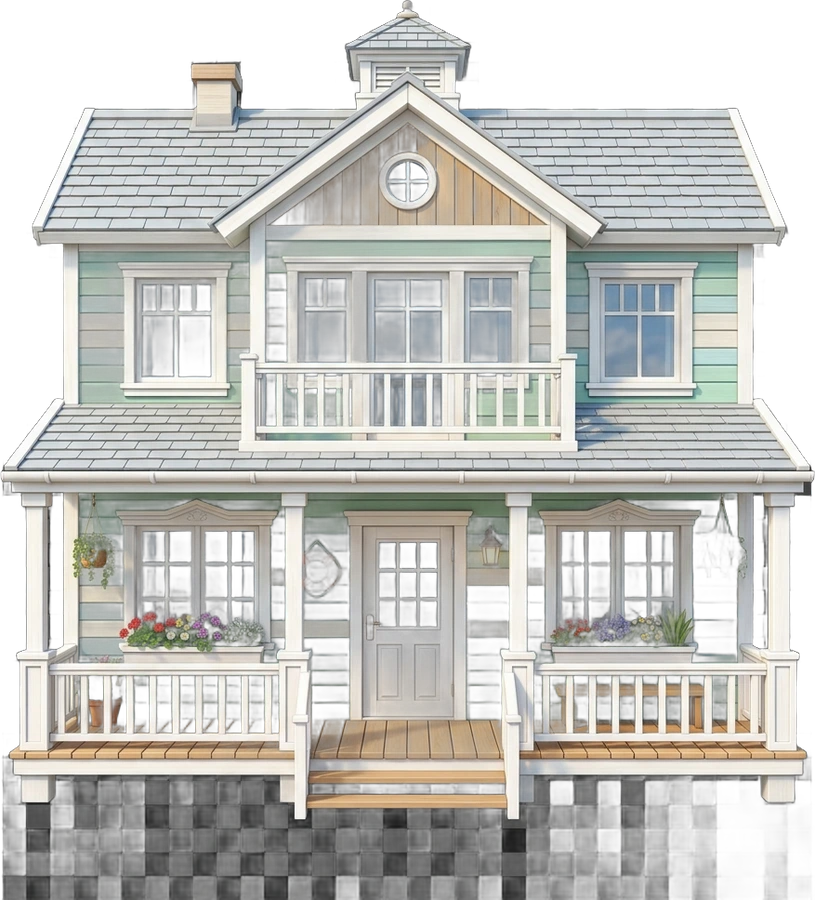
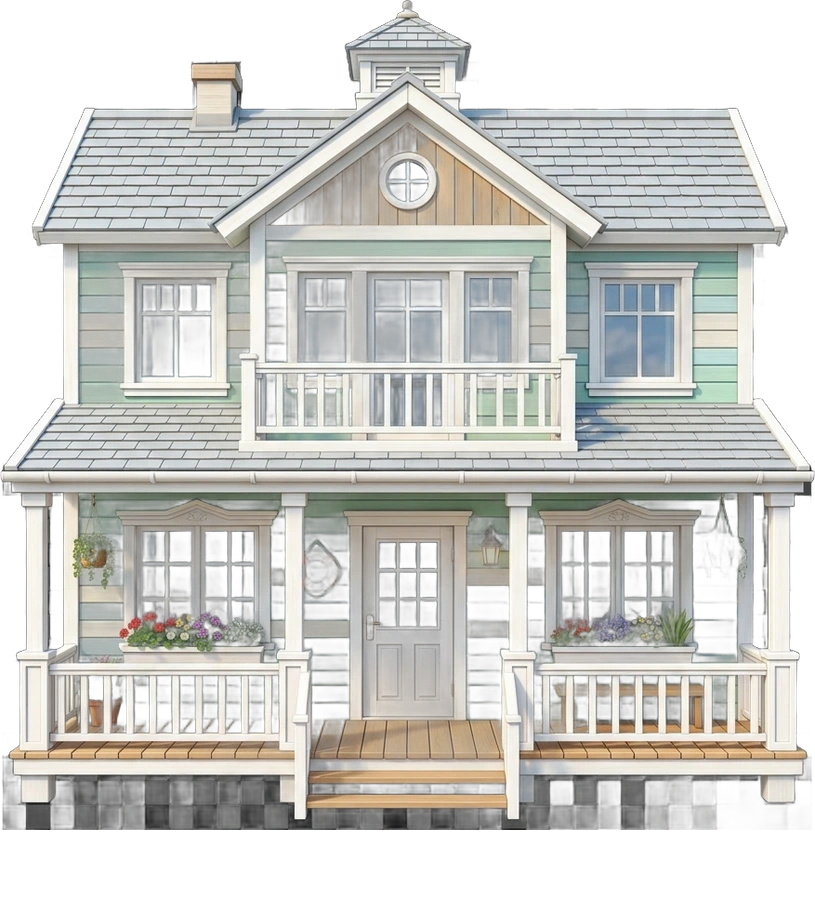
checkpoint before testing_agent_full_stack_o55
Emergent-Commit-Key: 1efefa363fb0563a43a59f183e94a5088f321c538fcaece272a6b99922b01de4

Changed region(s): [[0.0, 0.9022, 0.8896, 1.0], [0.9202, 0.9333, 0.9816, 1.0]]

diff --git a/frontend/src/world/World.js b/frontend/src/world/World.js
@@ -13,18 +13,22 @@ import { Ring, Bar } from "../components/fr";
 import { useFight } from "./useFight";
 import { startMusic } from "../game/sfx";
 import CatchCard from "./CatchCard";
+import { toast } from "sonner";
 import { ChatBox } from "./ChatBox";
 import { QuickTackle } from "./QuickTackle";
 import { lookFace } from "../game/look";
 
 export const PAGES = {
-  inventory: ["Tackle Box", "inventory"], journal: ["Fishdex", "fishdex"], shop: ["Tackle Shop", "bait"], waters: ["Travel Map", "map"], profile: ["My Angler", "skills"],
+  inventory: ["Tackle Box", "inventory"], journal: ["Fishdex", "fishdex"], shop: ["Tackle Shop", "/art/hud/tackle.webp"], waters: ["Travel Map", "map"], profile: ["My Angler", "skills"],
   quests: ["Quests", "quests"], contracts: ["Contracts", "daily"], market: ["Market", "market"], crews: ["Crew HQ", "crew"], tournaments: ["Tournaments", "rankings"],
   duel: ["Duel Pier", "guild"], leaderboards: ["Leaderboards", "rankings"], achievements: ["Achievements", "daily"], crafting: ["Bait Crafting", "craft"],
   messages: ["Messages", "pass"], almanac: ["Almanac", "fishdex"], wiki: ["Wiki", "skills"], "pearl-shop": ["Pearl Shop", "pass"], admin: ["Admin", "settings"],
 };
 const BAR_L = ["waters", "journal", "inventory"];
 const BAR_R = ["shop", "profile"];
+const BAR_R_WATER = ["quests", "profile"];
+// Only reachable from harbour buildings, never from a water.
+const HARBOUR_ONLY = new Set(["shop", "market", "crews", "pearl-shop", "contracts", "crafting", "tournaments", "leaderboards", "achievements", "almanac", "duel", "crew", "bosses", "boss"]);
 const MORE = ["pearl-shop", "quests", "contracts", "market", "crews", "tournaments", "duel", "leaderboards", "achievements", "crafting", "messages", "almanac", "wiki"];
 
 function useScale() {
@@ -47,8 +51,8 @@ function TopBar({ u, place, here }) {
         <div className="pcard-bar"><i style={{ width: `${Math.min(100, (u.energy / u.max_energy) * 100)}%` }} data-testid="energy-bar" /><span data-testid="energy-value">{Math.floor(u.energy)}/{u.max_energy}</span></div>
         <div className="pcard-bar xp"><i style={{ width: `${Math.min(100, ((u.xp_into_level ?? 0) / (u.xp_next || 1)) * 100)}%` }} data-testid="xp-bar" /></div>
       </div>
-      <Coins size={15} color="#ffd34d" className="pcard-ic gold" /><b className="pcard-v gold" data-testid="gold-value">{compact(u.gold)}</b>
-      <Gem size={14} color="#bff4ff" className="pcard-ic pearl" /><b className="pcard-v pearl" title="Pearls are earned in game and only buy cosmetics" data-testid="pearls-value">{compact(u.pearls)}</b>
+      <img src="/art/hud/gold.webp" alt="Gold" className="pcard-ic gold" /><b className="pcard-v gold" data-testid="gold-value">{compact(u.gold)}</b>
+      <img src="/art/hud/pearl.webp" alt="Pearls" className="pcard-ic pearl" /><b className="pcard-v pearl" title="Pearls are earned in game and only buy cosmetics" data-testid="pearls-value">{compact(u.pearls)}</b>
     </div>
   );
 }
@@ -91,6 +95,9 @@ export default function World() {
 
   const goTo = (m) => { fx.mode = m; sessionStorage.setItem("fr_mode", m); fx.me = { ...sceneFor(m === "harbour" ? "harbour" : user?.water || "millbrook").spawn }; fx.dest = null; fx.path = []; fx.autoOpen = null; fx.flip = false; setMode(m); };
 
+  useEffect(() => {
+    if (mode === "water" && page && HARBOUR_ONLY.has(page)) { toast("That's in the harbour. Sail back to visit it."); nav("/game", { replace: true }); }
+  }, [mode, page, nav]);
   useEffect(() => {
     const on = (e) => { goTo(e.detail); nav("/game", { replace: true }); };
     window.addEventListener("fr-mode", on);
@@ -170,17 +177,17 @@ export default function World() {
           <button type="button" data-testid="cast-fish-button" disabled={mode === "water" && (!canFish || !idle)}
             onPointerDown={(e) => { e.preventDefault(); onFish(); }}
             style={{ backgroundImage: `url(/art/hud/${mode === "harbour" ? "sail" : "fishbtn"}.webp)` }}
-            className={`fish-btn fish-btn-img w-[96px] h-[96px] -mt-7 grid place-items-center ${!idle ? "busy" : ""} ${mode === "water" && !canFish && idle ? "opacity-60 grayscale" : ""}`}>
+            className={`fish-btn fish-btn-img w-[96px] h-[96px] -mt-7 grid place-items-center ${ph === "fight" ? "invisible" : ""} ${!idle ? "busy" : ""} ${mode === "water" && !canFish && idle ? "opacity-60 grayscale" : ""}`}>
             <span className="fish-btn-label">{fishLabel}</span>
           </button>
-          {BAR_R.map((k) => <Ring key={k} img={k === "profile" ? lookFace(user.avatar) : PAGES[k][1]} label={PAGES[k][0]} size={w < 600 ? 36 : 46} testid={`menu-${k}`} onClick={() => nav(`/game/${k}`)} />)}
+          {(mode === "water" ? BAR_R_WATER : BAR_R).map((k) => <Ring key={k} img={k === "profile" ? lookFace(user.avatar) : PAGES[k][1]} label={PAGES[k][0]} size={w < 600 ? 36 : 46} testid={`menu-${k}`} onClick={() => nav(`/game/${k}`)} />)}
           <Ring img="settings" label="More" size={w < 600 ? 36 : 46} testid="menu-more" onClick={() => setMore(true)} />
         </div>
       </div>
       {more && (
         <Modal title="Menu" testid="more-modal" width={620} onClose={() => setMore(false)}>
           <div className="grid grid-cols-4 sm:grid-cols-5 gap-x-3 gap-y-4 py-2 justify-items-center">
-            {[...MORE, ...(user.is_admin ? ["admin"] : [])].map((k) => <Ring key={k} img={PAGES[k][1]} label={PAGES[k][0]} size={52} testid={`more-${k}`} onClick={() => { setMore(false); nav(`/game/${k}`); }} />)}
+            {[...MORE, ...(user.is_admin ? ["admin"] : [])].filter((k) => mode !== "water" || !HARBOUR_ONLY.has(k)).map((k) => <Ring key={k} img={PAGES[k][1]} label={PAGES[k][0]} size={52} testid={`more-${k}`} onClick={() => { setMore(false); nav(`/game/${k}`); }} />)}
           </div>
           <div className="flex justify-center mt-3">
             <button type="button" className="fr-btn fr-btn-dark px-5 py-1.5 text-sm flex items-center gap-2" onClick={async () => { await logout(); nav("/"); }} data-testid="logout-button"><LogOut size={14} /> Log out</button>

diff --git a/frontend/public/ui.css b/frontend/public/ui.css
@@ -28,8 +28,8 @@ html body .btn:disabled { filter: grayscale(.8) brightness(.7); }
 
 .fr-tile { background: url(/art/hud/tile.webp) center / 100% 100% no-repeat !important; border: 0 !important; box-shadow: none !important; backdrop-filter: none !important; }
 .fr-tile-label { color: #fff1c9 !important; text-shadow: 0 1px 2px #000, 0 0 6px #000 !important; font-weight: 700 !important; }
-.sf-item-art, .sf-deal img { background-image: url(/art/hud/tile.webp) !important; background-size: 100% 100% !important; border: 0 !important; }
-.sf-deal img { padding: 5px; }
+.sf-item-art, .sf-deal > img { background-image: url(/art/hud/tile.webp) !important; background-size: 100% 100% !important; border: 0 !important; }
+.sf-deal > img { padding: 5px; }
 
 /* player card */
 .pcard { position: relative; width: 360px; height: 169px; background: url(/art/hud/card2.webp) 0 0 / 100% 100% no-repeat; filter: drop-shadow(0 6px 10px rgba(0, 0, 0, .7)); }
@@ -158,3 +158,18 @@ html body .btn-sm { padding: 0 6px !important; }
 html body .panel-head, .sf-side-h { color: #ffd27a !important; }
 .look-edit-btn { width: 32px; height: 32px; display: grid; place-items: center; border-radius: 50%; color: #2a1503; background: linear-gradient(180deg, #ffd88a, #e08a1e); border: 2px solid #fff0c8; box-shadow: 0 3px 6px rgba(0, 0, 0, .6); transition: transform .15s; }
 .look-edit-btn:hover { transform: scale(1.1); }
+
+/* toasts + popups in the game theme */
+html body [data-sonner-toast] { border: 14px solid transparent !important; border-image: url(/art/hud/panel.webp) 195 fill / 14px / 0 stretch !important; background: none !important; box-shadow: 0 10px 24px rgba(0, 0, 0, .55) !important; color: #f2f6ff !important; font: 700 13.5px var(--ui-font) !important; padding: 6px 10px !important; border-radius: 0 !important; }
+html body [data-sonner-toast] [data-title] { font: 800 14px var(--ui-font) !important; color: #ffd27a !important; text-shadow: 0 1px 2px #000; text-transform: none !important; letter-spacing: 0 !important; }
+html body [data-sonner-toast] [data-description] { color: #dbe8ff !important; font: 600 12.5px var(--ui-font) !important; text-transform: none !important; }
+html body [data-sonner-toast] [data-icon] svg { color: #7dd87d; }
+html body [data-sonner-toast][data-type="error"] [data-title] { color: #ff9a8a !important; }
+.fixed.inset-0 > .panel, .fixed.inset-0 > div > .panel, [role="dialog"] .panel, [data-testid="look-dialog"] > div {
+  border: 30px solid transparent !important; border-image: url(/art/hud/panel.webp) 195 fill / 30px / 0 stretch !important; background: none !important; box-shadow: 0 20px 50px rgba(0, 0, 0, .7) !important; border-radius: 0 !important; }
+@media (max-width: 640px) { .fixed.inset-0 > .panel, .fixed.inset-0 > div > .panel, [role="dialog"] .panel, [data-testid="look-dialog"] > div { border-width: 18px !important; border-image-width: 18px !important; } }
+
+/* reel button: one control, navy when idle, orange while held */
+html body .reel-btn { border: 14px solid transparent !important; border-image: url(/art/hud/btn_dark.webp) 70 140 fill / 14px 24px / 0 stretch !important; background: none !important; color: #f2f6ff !important; min-height: 58px; font: 800 17px var(--ui-font) !important; text-shadow: 0 1px 2px #000 !important; box-shadow: none !important; }
+html body .reel-btn.holding { border-image: url(/art/hud/btn_gold.webp) 80 140 fill / 14px 24px / 0 stretch !important; color: #2a1503 !important; text-shadow: 0 1px 0 rgba(255, 240, 200, .6) !important; background: none !important; }
+.pcard-ic { width: 18px; height: 18px; object-fit: contain; margin-top: -2px; }

diff --git a/frontend/src/game/tilemap.js b/frontend/src/game/tilemap.js
@@ -18,7 +18,7 @@ export const OBJ = {
   bush: { w: 130, fp: [0.8, 0.3] },
   rocks: { w: 180, fp: [0.86, 0.36] },
   barrels: { w: 130, fp: [0.9, 0.42], rect: true },
-  reeds: { w: 150, fp: [0, 0], wet: true },
+  reeds: { w: 150, fp: [0, 0] },
   rowboat: { w: 230, fp: [0, 0], bob: 1.2, wet: true },
   ship: { w: 820, fp: [0, 0], bob: 2, wet: true },
   bridge: { w: 700, fp: [0, 0], ground: true },
@@ -103,7 +103,7 @@ export function buildMap(map, img) {
     ctx.shadowColor = "transparent";
     ctx.fillStyle = "#3a2412"; ctx.fillRect(-20, -hw - 6, L + 40, 8); ctx.fillRect(-20, hw - 2, L + 40, 8);
     ctx.restore();
-    for (let d = -10; d <= L + 30; d += 80) for (const side of [-1, 1]) {
+    for (let d = 0; d <= L + 20; d += 130) for (const side of [-1, 1]) {
       const px = ax + Math.cos(ang) * d - Math.sin(ang) * side * (hw + 2), py = ay + Math.sin(ang) * d + Math.cos(ang) * side * (hw + 2);
       ctx.drawImage(img.post, px - 16, py - 34, 32, 47);
     }
@@ -119,7 +119,20 @@ export function buildMap(map, img) {
   for (const s of map.water) { shape(g, s); if (s.line) { g.lineWidth = s.width + 30; g.stroke(); } else { g.lineWidth = 30; g.fill(); g.stroke(); } }
   const gw0 = Math.ceil(W / CELL), gh0 = Math.ceil(H / CELL), wpx = g.getImageData(0, 0, gw0, gh0).data;
   const isWater = (x, y) => { const cx = Math.floor(x / CELL), cy = Math.floor(y / CELL); return cx >= 0 && cy >= 0 && cx < gw0 && cy < gh0 && wpx[(cy * gw0 + cx) * 4] < 128; };
-  const objects = map.objects.filter((o) => OBJ[o.k].wet || OBJ[o.k].ground || !isWater(o.x, o.y - 4));
+  // Land props must stand fully on dry ground: if any base point is in water, nudge to the nearest dry spot.
+  const settle = (o) => {
+    const def = OBJ[o.k];
+    if (def.wet || def.ground) return o;
+    const w = o.w || def.w, half = w * 0.4;
+    const dry = (x, y) => [[x, y], [x - half, y], [x + half, y], [x, y - w * 0.2], [x - half, y - w * 0.2], [x + half, y - w * 0.2]].every(([a, b]) => !isWater(a, b + 6) && !isWater(a, b + 24));
+    if (dry(o.x, o.y)) return o;
+    for (let r = 16; r <= 480; r += 16) for (let k = 0; k < 16; k++) {
+      const x = o.x + Math.cos((k * Math.PI) / 8) * r, y = o.y + Math.sin((k * Math.PI) / 8) * r;
+      if (dry(x, y)) return { ...o, x, y };
+    }
+    return null;
+  };
+  const objects = map.objects.map(settle).filter(Boolean);
   g.fillStyle = g.strokeStyle = "#fff";
   for (const d of map.docks || []) { pathPoly(g, d.poly); g.fill(); }
   for (const b of map.bridges || []) { pathLine(g, [...b.a, ...b.b]); g.lineWidth = b.w - 18; g.stroke(); }

diff --git a/frontend/src/index.css b/frontend/src/index.css
@@ -342,7 +342,6 @@ html body .tag { background: rgba(0, 0, 0, .4) !important; border-radius: 3px !i
 .fish-btn { border-radius: 16px !important; }
 .lp2-catchbar { background: rgba(8, 7, 6, .82); border-bottom: 1px solid var(--trim); backdrop-filter: blur(12px); }
 .lp2-catch-fade { animation: fr-fade .6s ease-out both; }
-html body .reel-btn:not(.holding) { background: rgba(10, 9, 8, .86) !important; border: 1px solid var(--trim-hi) !important; color: #f1e4c4 !important; box-shadow: inset 0 1px 0 rgba(255, 240, 210, .08), 0 4px 14px rgba(0, 0, 0, .6) !important; }
 
 /* ===== Shop frame (tabs, banner, item grid, side deals, wallet) ===== */
 .sf { display: flex; flex-direction: column; gap: 0; }
@@ -358,7 +357,7 @@ html body .reel-btn:not(.holding) { background: rgba(10, 9, 8, .86) !important; 
 .sf-side-h { font-family: "Cinzel", serif; font-weight: 700; font-size: 12px; letter-spacing: .16em; text-transform: uppercase; color: #e8d6ae; padding: 2px 2px 6px; border-bottom: 1px solid rgba(214,172,92,.22); margin-bottom: 2px; }
 .sf-deal { display: flex; align-items: center; gap: 9px; padding: 7px; border: 1px solid rgba(214,172,92,.18); border-radius: 4px; background: rgba(0,0,0,.3); transition: border-color .2s, background-color .2s; }
 .sf-deal:hover, .sf-deal.on { border-color: rgba(236,196,112,.7); background: rgba(214,172,92,.08); }
-.sf-deal img { width: 40px; height: 40px; object-fit: contain; flex-shrink: 0; filter: drop-shadow(0 2px 3px rgba(0,0,0,.6)); }
+.sf-deal > img { width: 40px; height: 40px; object-fit: contain; flex-shrink: 0; filter: drop-shadow(0 2px 3px rgba(0,0,0,.6)); }
 .sf-banner { position: relative; display: flex; align-items: center; gap: 16px; min-height: 150px; padding: 18px 22px; margin-bottom: 12px; border: 1px solid rgba(214,172,92,.45); border-radius: 4px;
   background: rgba(10,9,8,.9) center / cover no-repeat; overflow: hidden; }
 .sf-kicker { font-family: "Cinzel", serif; font-size: 11px; letter-spacing: .22em; text-transform: uppercase; color: #d6ac5c; }

diff --git a/frontend/src/game/maps.js b/frontend/src/game/maps.js
@@ -20,7 +20,7 @@ export const HARBOUR_MAP = {
   ],
   objects: [
     { k: "bait_hut", x: 430, y: 945, w: 340 }, { k: "house", x: 800, y: 945 }, { k: "tackle_shop", x: 1160, y: 945 }, { k: "market_stall", x: 1560, y: 945 },
-    { k: "guild_hall", x: 2000, y: 945, w: 470 }, { k: "house", x: 2440, y: 945, flip: true },
+    { k: "guild_hall", x: 2000, y: 945, w: 470, fp: [0.92, 0.6] }, { k: "house", x: 2440, y: 945, flip: true },
     { k: "fountain", x: 1550, y: 1310, w: 250 }, { k: "quest_board", x: 1830, y: 1175, w: 140 }, { k: "quest_board", x: 1270, y: 1175, w: 140 },
     { k: "tavern", x: 900, y: 1585, w: 400 }, { k: "pearl_shop", x: 2120, y: 1585, w: 350 }, { k: "house", x: 300, y: 1585, w: 260 },
     { k: "ship", x: 3060, y: 1590, w: 620 }, { k: "rowboat", x: 1760, y: 2120, w: 210 },
@@ -37,9 +37,9 @@ export const HARBOUR_MAP = {
   spots: [
     { id: "crafting", label: "Workshop · Crafting", img: "craft", x: 430, y: 1000 },
     { id: "almanac", label: "Old Salt's Almanac", img: "fishdex", x: 800, y: 1000 },
-    { id: "shop", label: "Tackle Shop", img: "bait", x: 1160, y: 1000 },
+    { id: "shop", label: "Tackle Shop", img: "/art/hud/tackle.webp", x: 1160, y: 1000 },
     { id: "market", label: "Market", img: "market", x: 1560, y: 1000 },
-    { id: "crews", label: "Crew HQ", img: "crew", x: 2000, y: 1000 },
+    { id: "crews", label: "Crew HQ", img: "crew", x: 2000, y: 1010 },
     { id: "achievements", label: "Hall of Achievements", img: "skills", x: 2440, y: 1000 },
     { id: "tournaments", label: "Tournament Board", img: "rankings", x: 1270, y: 1215 },
     { id: "quests", label: "Quest Board", img: "quests", x: 1830, y: 1215 },

diff --git a/frontend/src/tfl/components/ui-bits.js b/frontend/src/tfl/components/ui-bits.js
@@ -4,7 +4,7 @@
  * modification, distribution or use of this file, in whole or in part, via any medium,
  * is strictly prohibited without prior written permission from the owner.
  */
-import { Coins, ShieldCheck, Heart } from "lucide-react";
+import { ShieldCheck, Heart } from "lucide-react";
 import { fmt } from "../lib/api";
 import { PixelIcon } from "./PixelIcon";
 import { t as tt } from "../i18n";
@@ -26,12 +26,12 @@ export const Rarity = ({ r, tag = false, className = "" }) =>
 
 export const Gold = ({ n, className = "", "data-testid": testId }) => (
   <span data-testid={testId} className={`num inline-flex items-center gap-1 text-[#ffcfa8] ${className}`}>
-    <Coins size={13} className="text-[var(--gold)]" />{fmt(n)}
+    <img src="/art/hud/gold.webp" alt="" aria-hidden className="w-[15px] h-[15px] object-contain" />{fmt(n)}
   </span>
 );
 
 export const PearlIcon = ({ size = 11, className = "" }) => (
-  <span aria-hidden className={`inline-block rounded-full shrink-0 ${className}`} style={{ width: size, height: size, background: "radial-gradient(circle at 35% 30%, #ffffff 0%, #f1e6f7 35%, #b9a8c9 75%, #7d6b8f 100%)", boxShadow: "0 0 0 1px rgba(255,255,255,.25), 0 0 4px rgba(214,196,234,.45)" }} />
+  <img src="/art/hud/pearl.webp" alt="" aria-hidden className={`inline-block shrink-0 object-contain ${className}`} style={{ width: size + 4, height: size + 4 }} />
 );
 
 export const Pearls = ({ n, className = "", "data-testid": testId }) => (

diff --git a/frontend/src/tfl/components/ShopFrame.js b/frontend/src/tfl/components/ShopFrame.js
@@ -1,4 +1,3 @@
-import { Coins, Gem } from "lucide-react";
 import { fmt } from "../lib/api";
 
 // Shared shop layout: folder tabs, main column (feature banner + item grid), side column, wallet bar.
@@ -15,8 +14,8 @@ export function ShopFrame({ tabs, value, onChange, side, wallet, action, childre
         {side && <aside className="sf-side" data-testid={`${testid}-side`}>{side}</aside>}
       </div>
       <div className="sf-wallet" data-testid={`${testid}-wallet`}>
-        {wallet.gold != null && <Purse icon={<Coins size={16} />} label="Gold" n={wallet.gold} testid={`${testid}-gold`} />}
-        {wallet.pearls != null && <Purse icon={<Gem size={16} />} label="Pearls" n={wallet.pearls} testid={`${testid}-pearls`} />}
+        {wallet.gold != null && <Purse icon={<img src="/art/hud/gold.webp" alt="" className="w-5 h-5" />} label="Gold" n={wallet.gold} testid={`${testid}-gold`} />}
+        {wallet.pearls != null && <Purse icon={<img src="/art/hud/pearl.webp" alt="" className="w-5 h-5" />} label="Pearls" n={wallet.pearls} testid={`${testid}-pearls`} />}
         <div className="ml-auto">{action}</div>
       </div>
     </div>

diff --git a/frontend/src/world/LookEditor.js b/frontend/src/world/LookEditor.js
@@ -26,7 +26,7 @@ export function LookEditor() {
           <div className="fr-panel fr-modal p-5 w-full max-w-[420px] rise">
             <h3 className="font-deco gold-text text-lg text-center mb-4">Your angler</h3>
             <CharacterPicker value={look} onChange={setLook} testid="look-picker" />
-            <p className="text-[11px] text-amber-100/60 mt-3">Outfits, wings and pets will arrive in the Pearl Shop later.</p>
+            <p className="text-[11px] text-amber-100/60 mt-3">Outfits, rod skins and pets will arrive in the Pearl Shop later.</p>
             <div className="flex justify-end gap-2 mt-4">
               <button type="button" className="fr-btn fr-btn-dark px-4 py-1.5 text-sm" onClick={() => setOpen(false)} data-testid="look-cancel">Cancel</button>
               <button type="button" className="fr-btn px-5 py-1.5 text-sm" disabled={busy || look === user.avatar} onClick={save} data-testid="look-save">{busy ? "Saving…" : "Save look"}</button>

diff --git a/frontend/src/tfl/components/WorldMap.js b/frontend/src/tfl/components/WorldMap.js
@@ -4,8 +4,8 @@ import { fmt } from "../lib/api";
 
 // Pin positions on art/hud/world_map.webp (1264x848), in %.
 const PINS = {
-  harbour: [54.6, 42.5], millbrook: [43.5, 34], willow: [26, 22.5], greyfell: [50, 13], saltmarsh: [34, 52], harrow: [15, 47],
-  coral: [42.7, 75.5], blackwater: [85.5, 39], frozen: [85.5, 15.5], sunken: [71, 55.5], ghostlight: [88.6, 66], temple: [75, 81.5], cinder: [15, 80],
+  harbour: [54.6, 42.5], millbrook: [43.5, 34], willow: [26, 22.5], greyfell: [50, 17], saltmarsh: [34, 52], harrow: [15, 47],
+  coral: [42.7, 75.5], blackwater: [85.5, 39], frozen: [85.5, 19], sunken: [71, 55.5], ghostlight: [88.6, 66], temple: [75, 81.5], cinder: [15, 80],
 };
 const ROUTE = [[56, 50], [60, 60], [52, 66], [40, 62], [30, 58], [22, 64], [28, 72], [45, 88], [62, 70], [70, 62], [82, 52], [92, 50], [80, 46], [66, 48], [56, 50]];
 const goMode = (m) => window.dispatchEvent(new CustomEvent("fr-mode", { detail: m }));

diff --git a/frontend/src/world/ChatBox.js b/frontend/src/world/ChatBox.js
@@ -39,7 +39,7 @@ export function ChatBox() {
     e.preventDefault();
     const t = text.trim();
     if (!t) return;
-    try { await api.post(`/chat/${ch}`, { text: t }); setText(""); fx.bubbles[user.username] = { text: t, until: Date.now() + 6000 }; } catch (er) { toast.error(errMsg(er)); }
+    try { const r = await api.post(`/chat/${ch}`, { text: t }); setText(""); if (r.data?.id) { last.current = r.data.at || last.current; setRows((old) => [...old, r.data].slice(-80)); } fx.bubbles[user.username] = { text: t, until: Date.now() + 6000 }; } catch (er) { toast.error(errMsg(er)); }
   };
   return (
     <div className={`chatbox pointer-events-auto ${open ? "open" : ""}`} data-testid="chat-box" onKeyDown={(e) => e.stopPropagation()}>

diff --git a/memory/tmp_p6.py b/memory/tmp_p6.py
@@ -1,0 +1,67 @@
+def patch(p, pairs):
+    s = open(p).read()
+    for a, b in pairs:
+        assert a in s, (p, a[:80]); s = s.replace(a, b, 1)
+    open(p, 'w').write(s)
+F = '/app/frontend/'
+# A. objects never sit half in water: nudge onto dry land
+patch(F + 'src/game/tilemap.js', [
+    ('  const objects = map.objects.filter((o) => OBJ[o.k].wet || OBJ[o.k].ground || !isWater(o.x, o.y - 4));', '''  // Land props must stand fully on dry ground: if any base point is in water, nudge to the nearest dry spot.
+  const settle = (o) => {
+    const def = OBJ[o.k];
+    if (def.wet || def.ground) return o;
+    const w = o.w || def.w, half = w * 0.4;
+    const dry = (x, y) => [[x, y], [x - half, y], [x + half, y], [x, y - w * 0.2], [x - half, y - w * 0.2], [x + half, y - w * 0.2]].every(([a, b]) => !isWater(a, b + 6) && !isWater(a, b + 24));
+    if (dry(o.x, o.y)) return o;
+    for (let r = 16; r <= 480; r += 16) for (let k = 0; k < 16; k++) {
+      const x = o.x + Math.cos((k * Math.PI) / 8) * r, y = o.y + Math.sin((k * Math.PI) / 8) * r;
+      if (dry(x, y)) return { ...o, x, y };
+    }
+    return null;
+  };
+  const objects = map.objects.map(settle).filter(Boolean);'''),
+    ("reeds: { w: 150, fp: [0, 0], wet: true }", "reeds: { w: 150, fp: [0, 0] }"),
+])
+patch(F + 'src/game/maps.js', [('{ k: "guild_hall", x: 2000, y: 945, w: 470 }', '{ k: "guild_hall", x: 2000, y: 945, w: 470, fp: [0.92, 0.6] }')])
+s = open(F + 'src/game/maps.js').read()
+s = s.replace('{ id: "crews", label: "Crew HQ", img: "crew", x: 2000, y: 1000 }', '{ id: "crews", label: "Crew HQ", img: "crew", x: 2000, y: 1010 }')
+open(F + 'src/game/maps.js', 'w').write(s)
+
+# C. one reel control during a fight
+patch(F + 'src/index.css', [('html body .reel-btn:not(.holding) { background: rgba(10, 9, 8, .86) !important; border: 1px solid var(--trim-hi) !important; color: #f1e4c4 !important; box-shadow: inset 0 1px 0 rgba(255, 240, 210, .08), 0 4px 14px rgba(0, 0, 0, .6) !important; }\n', '')])
+patch(F + 'src/world/World.js', [
+    ('className={`fish-btn fish-btn-img w-[96px] h-[96px] -mt-7 grid place-items-center ${!idle ? "busy" : ""}', 'className={`fish-btn fish-btn-img w-[96px] h-[96px] -mt-7 grid place-items-center ${ph === "fight" ? "invisible" : ""} ${!idle ? "busy" : ""}'),
+    # E. water mode: essentials only
+    ('const BAR_L = ["waters", "journal", "inventory"];\nconst BAR_R = ["shop", "profile"];', 'const BAR_L = ["waters", "journal", "inventory"];\nconst BAR_R = ["shop", "profile"];\nconst BAR_R_WATER = ["quests", "profile"];\n// Only reachable from harbour buildings, never from a water.\nconst HARBOUR_ONLY = new Set(["shop", "market", "crews", "pearl-shop", "contracts", "crafting", "tournaments", "leaderboards", "achievements", "almanac", "duel", "crew", "bosses", "boss"]);'),
+    ('          {BAR_R.map((k) =>', '          {(mode === "water" ? BAR_R_WATER : BAR_R).map((k) =>'),
+    ('{[...MORE, ...(user.is_admin ? ["admin"] : [])].map((k) =>', '{[...MORE, ...(user.is_admin ? ["admin"] : [])].filter((k) => mode !== "water" || !HARBOUR_ONLY.has(k)).map((k) =>'),
+    ('  useEffect(() => {\n    const on = (e) => { goTo(e.detail); nav("/game", { replace: true }); };', '''  useEffect(() => {
+    if (mode === "water" && page && HARBOUR_ONLY.has(page)) { toast("That's in the harbour. Sail back to visit it."); nav("/game", { replace: true }); }
+  }, [mode, page, nav]);
+  useEffect(() => {
+    const on = (e) => { goTo(e.detail); nav("/game", { replace: true }); };'''),
+    ('crews: ["Crew HQ", "crew"]', 'crews: ["Crew HQ", "crew"]'),
+    ('<Coins size={15} color="#ffd34d" className="pcard-ic gold" />', '<img src="/art/hud/gold.webp" alt="Gold" className="pcard-ic gold" />'),
+    ('<Gem size={14} color="#bff4ff" className="pcard-ic pearl" />', '<img src="/art/hud/pearl.webp" alt="Pearls" className="pcard-ic pearl" />'),
+])
+s = open(F + 'src/world/World.js').read()
+s = s.replace('shop: ["Tackle Shop", "bait"]', 'shop: ["Tackle Shop", "/art/hud/tackle.webp"]')
+if 'import { toast }' not in s: s = s.replace('import CatchCard from "./CatchCard";', 'import CatchCard from "./CatchCard";\nimport { toast } from "sonner";')
+open(F + 'src/world/World.js', 'w').write(s)
+patch(F + 'src/game/maps.js', [('label: "Tackle Shop", img: "bait"', 'label: "Tackle Shop", img: "/art/hud/tackle.webp"')])
+# D. one gold + pearl graphic everywhere
+patch(F + 'src/tfl/components/ui-bits.js', [
+    ('    <Coins size={13} className="text-[var(--gold)]" />{fmt(n)}', '    <img src="/art/hud/gold.webp" alt="" aria-hidden className="w-[15px] h-[15px] object-contain" />{fmt(n)}'),
+    ('''  <span aria-hidden className={`inline-block rounded-full shrink-0 ${className}`} style={{ width: size, height: size, background: "radial-gradient(circle at 35% 30%, #ffffff 0%, #f1e6f7 35%, #b9a8c9 75%, #7d6b8f 100%)", boxShadow: "0 0 0 1px rgba(255,255,255,.25), 0 0 4px rgba(214,196,234,.45)" }} />''',
+     '''  <img src="/art/hud/pearl.webp" alt="" aria-hidden className={`inline-block shrink-0 object-contain ${className}`} style={{ width: size + 4, height: size + 4 }} />'''),
+])
+patch(F + 'src/tfl/components/ShopFrame.js', [
+    ('<Purse icon={<Coins size={16} />} label="Gold"', '<Purse icon={<img src="/art/hud/gold.webp" alt="" className="w-5 h-5" />} label="Gold"'),
+    ('<Purse icon={<Gem size={16} />} label="Pearls"', '<Purse icon={<img src="/art/hud/pearl.webp" alt="" className="w-5 h-5" />} label="Pearls"'),
+    ('import { Coins, Gem } from "lucide-react";\n', ''),
+])
+# F. chat shows own line instantly, look dialog text, map pins
+patch(F + 'src/world/ChatBox.js', [('try { await api.post(`/chat/${ch}`, { text: t }); setText("");', 'try { const r = await api.post(`/chat/${ch}`, { text: t }); setText(""); if (r.data?.id) { last.current = r.data.at || last.current; setRows((old) => [...old, r.data].slice(-80)); }')])
+patch(F + 'src/world/LookEditor.js', [('Outfits, wings and pets will arrive in the Pearl Shop later.', 'Outfits, rod skins and pets will arrive in the Pearl Shop later.')])
+patch(F + 'src/tfl/components/WorldMap.js', [('greyfell: [50, 13]', 'greyfell: [50, 17]'), ('frozen: [85.5, 15.5]', 'frozen: [85.5, 19]')])
+print('ok')

diff --git a/memory/raw/bg4.py b/memory/raw/bg4.py
@@ -1,0 +1,13 @@
+from rembg import remove, new_session
+from PIL import Image
+import numpy as np
+s = new_session("isnet-general-use")
+for n, size in [("i_gold", 128), ("i_pearl", 128), ("i_tackle", 256)]:
+    o = remove(Image.open(n + ".jpg").convert("RGB"), session=s)
+    o = o.crop(o.getchannel("A").point(lambda v: 255 if v > 20 else 0).getbbox()); o.thumbnail((size, size), Image.LANCZOS)
+    o.save("/app/frontend/public/art/hud/" + {"i_gold": "gold", "i_pearl": "pearl", "i_tackle": "tackle"}[n] + ".webp", quality=92); print(n, o.size, flush=True)
+# house sprite: kill the dithered half-transparent shadow at the bottom
+p = "/app/frontend/public/art/map/house.webp"
+a = np.array(Image.open(p).convert("RGBA")); h = a.shape[0]
+band = a[h - 70:, :, 3]; band[band < 230] = 0; a[h - 70:, :, 3] = band
+Image.fromarray(a).save(p, quality=92); print("house fixed")
